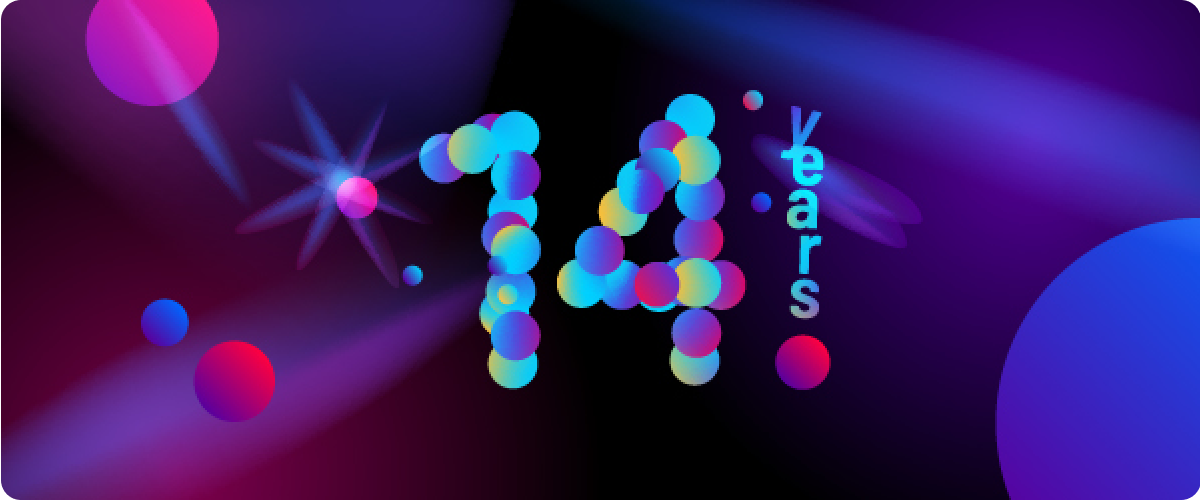
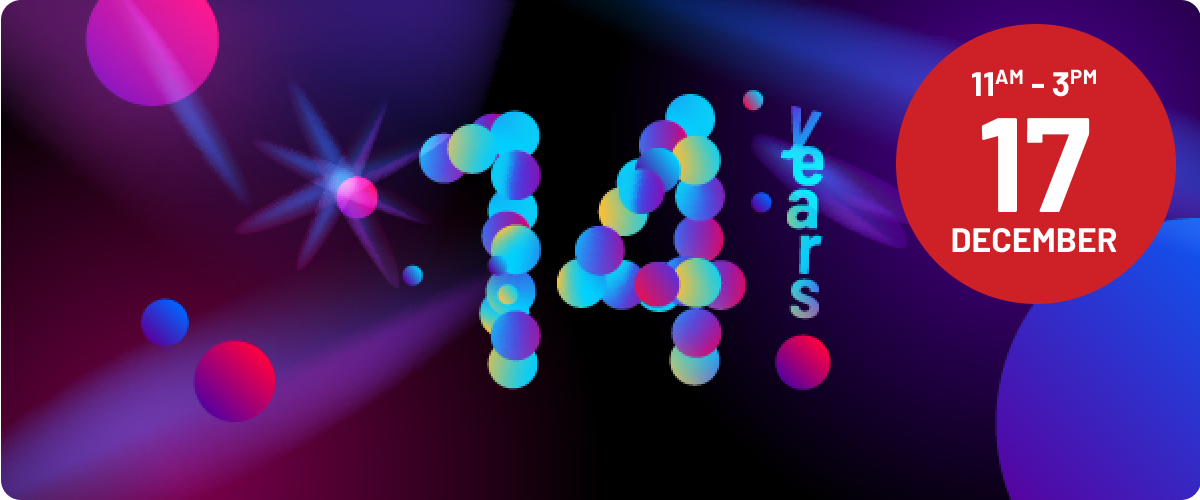
заміна картинки

Changed region(s): [[0.74, 0.03, 0.9867, 0.63]]

diff --git a/email-14years.html b/email-14years.html
@@ -199,7 +199,7 @@
                                             <table border="0" cellspacing="0" cellpadding="0" role="presentation">
                                                 <tr>
                                                     <td>
-                                                        <img src="https://i.ibb.co/nfP8CWp/14-years.png" alt="14 Years Anniversary!" border="0" width="600"
+                                                        <img src="https://i.ibb.co/55HZYK9/14-years.png" alt="14 Years Anniversary!" border="0" width="600"
                                                             style="max-width: 600px;border-radius: 10px;" />
                                                     </td>
                                                 </tr>
@@ -218,7 +218,7 @@
                                                 <tr>
                                                     <td style="padding: 20px 0 20px 0;">
                                                         <a href="" target="_blank">
-                                                            <img src="https://i.ibb.co/njPJ7XQ/Frame-3.png" border="0" width="600"
+                                                            <img src="https://i.ibb.co/PG5x6TL/Frame-3.png" border="0" width="600"
                                                                 style="max-width: 600px;" />
                                                         </a>
                                                     </td>
